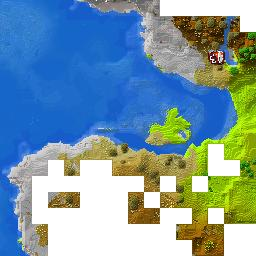
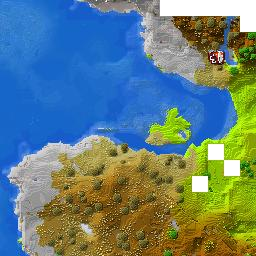
NEW

Changed region(s): [[0.125, 0.5938, 1.0, 1.0], [0.7812, 0.5938, 0.9062, 0.7188]]

diff --git a/overworld/unmined.map.regions.js b/overworld/unmined.map.regions.js
@@ -1,6 +1,6 @@
 var UnminedRegions = [
 { x: 0, z: 0, m: new Uint32Array([15,15,15,31,31,8,0,0,0,0,0,0,0,0,0,0,0,0,0,0,0,0,0,0,0,0,0,0,0,0,0,0,0,0,0,0,0,0,0,0,0,0,0,0,0,0,0,0,0,0,0,0,0,0,0,0,0,0,0,0,0,0,0,0,0,0,0,0,0,0,0,0,0,0,0,0,0,0,0,0,0,0,0,0,0,0,0,0,0,0,0,0,0,0,0,0,0,0,0,0,0,0,0,0,0,0,0,0,0,0,0,0,0,0,0,0,0,0,0,0,0,0,0,0,0,0,0,0,0,0,0,0,0,0,0,0,0,0,0,0,0,0,0,0,0,0,0,0,0,0,0,0,0,0,0,0,0,0,0,0,0,0,0,0,0,0,0,0,0,0,0,0,0,0,0,0,0,0,0,0,0,0,0,0,0,0,0,0,0,0,0,0,0,0,0,0,0,0,0,0,0,0,0,0,0,0,0,0,0,0,0,0,0,0,0,0,0,0,0,0,0,0,0,0,0,0,0,0,0,0,0,0,0,0,0,0,0,0,0,0,0,0,0,0,0,0,0,0,0,0,0,0,0,0,0,0]) },
 { x: -1, z: 0, m: new Uint32Array([3221225472,2147483648,1073741824,0,0,0,0,0,0,0,0,0,0,0,0,0,0,0,0,0,0,0,0,0,0,0,0,0,0,0,0,0,0,0,0,0,0,0,0,0,0,0,0,0,0,0,0,0,0,0,0,0,0,0,0,0,0,0,0,0,0,0,0,0,0,0,0,0,0,0,0,0,0,0,0,0,0,0,0,0,0,0,0,0,0,0,0,0,0,0,0,0,0,0,0,0,0,0,0,0,0,0,0,0,0,0,0,0,0,0,0,0,0,0,0,0,0,0,0,0,0,0,0,0,0,0,0,0,0,0,0,0,0,0,0,0,0,0,0,0,0,0,0,0,0,0,0,0,0,0,0,0,0,0,0,0,0,0,0,0,0,0,0,0,0,0,0,0,0,0,0,0,0,0,0,0,0,0,0,0,0,0,0,0,0,0,0,0,0,0,0,0,0,0,0,0,0,0,0,0,0,0,0,0,0,0,0,0,0,0,0,0,0,0,0,0,0,0,0,0,0,0,0,0,0,0,0,0,0,0,0,0,0,0,0,0,0,0,0,0,0,0,0,0,0,0,0,0,0,0,0,0,0,0,0,0]) },
-{ x: 0, z: -1, m: new Uint32Array([0,0,0,0,0,0,0,0,0,0,0,0,0,0,0,0,0,0,0,0,0,0,0,0,0,0,0,0,0,0,0,3,0,0,0,0,0,0,0,0,0,0,0,0,0,0,0,0,0,0,0,0,0,0,0,0,0,0,0,0,0,0,0,0,0,0,0,0,0,0,0,0,0,0,0,0,0,0,0,0,0,0,0,0,0,0,0,0,0,0,0,0,0,0,0,0,0,0,0,0,0,0,0,0,0,0,0,0,0,0,0,0,0,0,0,0,0,0,0,0,0,0,0,0,0,0,0,0,0,0,0,0,0,0,0,0,0,0,0,0,0,0,0,0,0,0,0,0,0,0,0,0,0,0,0,0,0,0,0,0,0,0,0,0,0,0,0,0,0,0,0,0,0,0,0,0,0,0,0,0,0,0,0,0,0,0,0,0,0,0,0,0,0,0,0,0,0,0,0,0,0,0,0,0,0,0,0,0,0,0,0,0,0,0,0,0,0,0,0,0,0,0,0,0,0,0,0,0,0,0,0,0,0,0,0,0,0,0,0,0,0,0,0,0,0,0,0,0,0,0,0,0,0,0,0,0]) },
+{ x: 0, z: -1, m: new Uint32Array([0,0,0,0,0,0,0,0,0,0,0,0,0,0,0,0,0,0,0,0,0,0,0,0,0,0,0,0,0,0,0,7,0,0,0,0,0,0,0,0,0,0,0,0,0,0,0,0,0,0,0,0,0,0,0,0,0,0,0,0,0,0,0,0,0,0,0,0,0,0,0,0,0,0,0,0,0,0,0,0,0,0,0,0,0,0,0,0,0,0,0,0,0,0,0,0,0,0,0,0,0,0,0,0,0,0,0,0,0,0,0,0,0,0,0,0,0,0,0,0,0,0,0,0,0,0,0,0,0,0,0,0,0,0,0,0,0,0,0,0,0,0,0,0,0,0,0,0,0,0,0,0,0,0,0,0,0,0,0,0,0,0,0,0,0,0,0,0,0,0,0,0,0,0,0,0,0,0,0,0,0,0,0,0,0,0,0,0,0,0,0,0,0,0,0,0,0,0,0,0,0,0,0,0,0,0,0,0,0,0,0,0,0,0,0,0,0,0,0,0,0,0,0,0,0,0,0,0,0,0,0,0,0,0,0,0,0,0,0,0,0,0,0,0,0,0,0,0,0,0,0,0,0,0,0,0]) },
 { x: -1, z: -1, m: new Uint32Array([0,0,0,0,0,0,0,0,0,0,0,0,0,0,0,0,0,0,0,0,0,0,0,0,0,0,0,0,0,0,0,3221225472,0,0,0,0,0,0,0,0,0,0,0,0,0,0,0,0,0,0,0,0,0,0,0,0,0,0,0,0,0,0,0,0,0,0,0,0,0,0,0,0,0,0,0,0,0,0,0,0,0,0,0,0,0,0,0,0,0,0,0,0,0,0,0,0,0,0,0,0,0,0,0,0,0,0,0,0,0,0,0,0,0,0,0,0,0,0,0,0,0,0,0,0,0,0,0,0,0,0,0,0,0,0,0,0,0,0,0,0,0,0,0,0,0,0,0,0,0,0,0,0,0,0,0,0,0,0,0,0,0,0,0,0,0,0,0,0,0,0,0,0,0,0,0,0,0,0,0,0,0,0,0,0,0,0,0,0,0,0,0,0,0,0,0,0,0,0,0,0,0,0,0,0,0,0,0,0,0,0,0,0,0,0,0,0,0,0,0,0,0,0,0,0,0,0,0,0,0,0,0,0,0,0,0,0,0,0,0,0,0,0,0,0,0,0,0,0,0,0,0,0,0,0,0,0]) },
 ];
